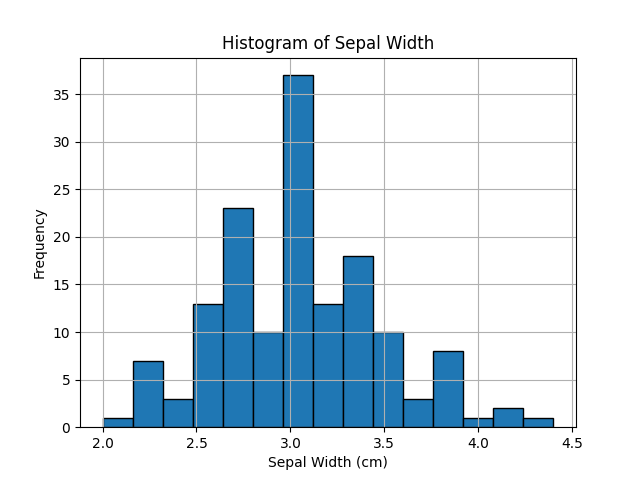
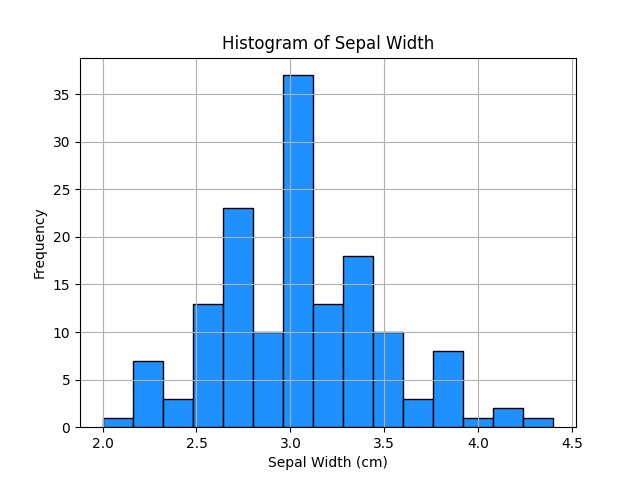
updated charts

Changed region(s): [[0.1562, 0.1562, 0.875, 0.9062]]

diff --git a/analysis.py b/analysis.py
@@ -1,48 +1,74 @@
 # Author: Elaine R. Cazetta
-# Description: This script is part of the Iris Dataset Analysis Project for the 
-# Programming and Scripting module. It performs basic data analysis using the 
-# Iris dataset, including:
+# Description: This script is part of the Iris Dataset Analysis 
+# Project for the Programming and Scripting module. It performs 
+# basic data analysis using the Iris dataset, including:
 # - Exporting the dataset to CSV format
 # - Generating summary statistics
 # - Creating histograms for each feature
 # - Visualising relationships between features using scatter plots
-# - Exploring species-wise differences with box plots
+# - Exploring differences between species with box plots
 # - Displaying feature correlations using a heatmap
+# - Visualising relationships between features using a pairplot
 # Lecturer: Andrew Beatty
 # Institution: Atlantic Technological University
 # Year: 2025
 
-# Imports:
-import pandas as pd
-import numpy as np
-import matplotlib.pyplot as plt
-from sklearn.datasets import load_iris
+#-----------------------------------------------------------------#
+
+# Importing the libraries:
+# For data manipulation and analysis
+import pandas as pd 
+# For numerical operations and working with arrays
+import numpy as np 
+# For creating data visualizations
+import matplotlib.pyplot as plt 
+# For creating enhanced and statistical visualizations
+import seaborn as sns
+# To load the Iris dataset
+from sklearn.datasets import load_iris 
+
+#-----------------------------------------------------------------#
 
 # Load the Iris dataset from sklearn
 iris = load_iris()
 
+#-----------------------------------------------------------------#
+
 # Create a pandas dataframe with the feature data
 df = pd.DataFrame(data=iris.data, columns=iris.feature_names)
+
 # Add a 'species' column to identify each row
 df['species'] = iris.target
+
+# Map the numeric species labels (0, 1, 2) to their corresponding 
+# species names
+species_map = {0: 'setosa', 1: 'versicolor', 2: 'virginica'}
+df['species'] = df['species'].replace(species_map)
+
+#-----------------------------------------------------------------#
 
 # Save the full dataset to a CSV file for external use or review
 df.to_csv('iris.csv', index=False)
 
+#-----------------------------------------------------------------#
+
 # Generate summary statistics for each numeric feature
-# Includes: count, mean, std deviation, min, 25%, 50%, 75%, and max values
+# Includes: count, mean, std deviation, min, 25%, 50%, 75%, and 
+# max values
 summary = df.describe()
 
 # Save the summary to a text file
 with open('summary.txt', 'w') as f:
     f.write("Summary of Each Variable in the Iris Dataset\n")
-    f.write(summary.to_string())  # Converts the summary dataframe into a string
+    f.write(summary.to_string()) # Converts summary dataframe into a string
+
+#-----------------------------------------------------------------#
 
 # Plot and save histograms to show distribution of each numeric feature:
 
 # Histogram: Sepal Length
 plt.figure()
-plt.hist(df['sepal length (cm)'], bins=15, edgecolor='black')
+plt.hist(df['sepal length (cm)'], bins=15, color='dodgerblue', edgecolor='black')
 plt.title('Histogram of Sepal Length')
 plt.xlabel('Sepal Length (cm)')
 plt.ylabel('Frequency')
@@ -52,7 +78,7 @@ plt.close()
 
 # Histogram: Sepal Width
 plt.figure()
-plt.hist(df['sepal width (cm)'], bins=15, edgecolor='black')
+plt.hist(df['sepal width (cm)'], bins=15, color='dodgerblue', edgecolor='black')
 plt.title('Histogram of Sepal Width')
 plt.xlabel('Sepal Width (cm)')
 plt.ylabel('Frequency')
@@ -62,7 +88,7 @@ plt.close()
 
 # Histogram: Petal Length
 plt.figure()
-plt.hist(df['petal length (cm)'], bins=15, edgecolor='black')
+plt.hist(df['petal length (cm)'], bins=15, color='dodgerblue', edgecolor='black')
 plt.title('Histogram of Petal Length')
 plt.xlabel('Petal Length (cm)')
 plt.ylabel('Frequency')
@@ -72,7 +98,7 @@ plt.close()
 
 # Histogram: Petal Width
 plt.figure()
-plt.hist(df['petal width (cm)'], bins=15, edgecolor='black')
+plt.hist(df['petal width (cm)'], bins=15, color='dodgerblue', edgecolor='black')
 plt.title('Histogram of Petal Width')
 plt.xlabel('Petal Width (cm)')
 plt.ylabel('Frequency')
@@ -80,19 +106,26 @@ plt.grid()
 plt.savefig('fig4_hist_petal_width.png')
 plt.close()
 
+#-----------------------------------------------------------------#
+
 # Create scatter plots for feature pairs, colored by species
 # These plots help visualize how species differ based on two features:
 
-# Define colors and labels
-colors = ["dodgerblue", "darkorange", "mediumvioletred"]
-labels = iris.target_names
+# Define colours for each species using a dictionary
+colors = {'setosa': 'dodgerblue', 'versicolor': 'darkorange', 
+          'virginica': 'mediumvioletred'}
 
-# Scatter plot: Sepal Length vs Sepal Width
-plt.figure(figsize=(8, 6))
-for i in range(3):
-    subset = df[df['species'] == i]
-    plt.scatter(subset["sepal length (cm)"], subset["sepal width (cm)"],
-                color=colors[i], label=labels[i])
+# Scatter Plot: Sepal Length vs Sepal Width
+plt.figure(figsize=(8, 6)) # Set the figure size
+
+# Filter the DataFrame by species [18]
+for species, color in colors.items():
+    subset = df[df['species'] == species]
+
+# Plot Sepal Length vs Sepal Width for each species
+    plt.scatter(subset['sepal length (cm)'], subset['sepal width (cm)'],
+                label=species, color=color)
+    
 plt.xlabel("Sepal Length (cm)")
 plt.ylabel("Sepal Width (cm)")
 plt.title("Sepal Length vs Sepal Width")
@@ -101,12 +134,17 @@ plt.legend()
 plt.savefig("fig5_sepal_scatter_plot.png")
 plt.close()
 
-# Scatter plot: Petal Length vs Petal Width
-plt.figure(figsize=(8, 6))
-for i in range(3):
-    subset = df[df['species'] == i]
-    plt.scatter(subset["petal length (cm)"], subset["petal width (cm)"],
-                color=colors[i], label=labels[i])
+# Scatter Plot: Petal Length vs Petal Width
+plt.figure(figsize=(8, 6)) # Set the figure size
+
+# Filter the DataFrame by species [18]
+for species, color in colors.items():
+    subset = df[df['species'] == species]
+
+# Plot Petal Length vs Petal Width for each species
+    plt.scatter(subset['petal length (cm)'], subset['petal width (cm)'],
+                label=species, color=color)
+    
 plt.xlabel("Petal Length (cm)")
 plt.ylabel("Petal Width (cm)")
 plt.title("Petal Length vs Petal Width")
@@ -115,48 +153,86 @@ plt.legend()
 plt.savefig("fig6_petal_scatter_plot.png")
 plt.close()
 
-# Create box plots to show distribution of petal and sepal lengths by species
+#-----------------------------------------------------------------#
+
+# Create box plots to show distribution of each feature grouped by species.
 # Helps compare median, range, and outliers among species for each feature:
 
-# Define custom colors
-colors = ["dodgerblue", "darkorange", "mediumvioletred"]
-species_labels = ["Setosa", "Versicolor", "Virginica"]
+# Set style to white to remove gridlines
+sns.set(style="whitegrid")
 
-# Box Plot: Petal Length by Species
-petal_lengths = [df[df["species"] == i]["petal length (cm)"] for i in range(3)]
-plt.figure(figsize=(8, 6))
-box = plt.boxplot(petal_lengths, patch_artist=True, tick_labels=species_labels)
-for patch, color in zip(box['boxes'], colors):
-    patch.set_facecolor(color)
-plt.title("Box Plot of Petal Length by Species")
-plt.ylabel("Petal Length (cm)")
-plt.grid(True)
-plt.savefig("fig7_boxplot_petal_length_by_species.png")
+# Features to plot
+features = ['sepal length (cm)', 'sepal width (cm)', 
+            'petal length (cm)', 'petal width (cm)']
+
+# Loop through each feature and save individual plots
+for i, feature in enumerate(features, start=7):  # Start numbering at figure 7
+    plt.figure(figsize=(8, 6))  # Create a new figure
+
+    # Create boxplot for the current feature grouped by species
+    sns.boxplot(x='species', y=feature, data=df,
+                hue='species', legend=False,
+                palette={'setosa': 'dodgerblue',
+                         'versicolor': 'darkorange',
+                         'virginica': 'mediumvioletred'})
+
+    # Add title, axis labels and gridelines
+    plt.title(f'Box Plot of {feature} by Species')
+    plt.xlabel('')
+    plt.ylabel(feature)
+    plt.grid()
+
+    # Save the plot as a PNG file
+    filename = f'fig{i}_boxplot_{feature.replace(" ", "_")}_by_species.png'
+    plt.savefig(filename)
+    plt.close()
+
+#-----------------------------------------------------------------#
+
+# Create heatmaps to show correlations between numeric features:
+
+# Loop through each species and create individual heatmaps
+species_list = df['species'].unique()
+
+for i, species in enumerate(species_list, start=11): # Start figure at 11
+    subset = df[df['species'] == species].drop('species', axis=1) # Drop species column
+    corr = subset.corr()  # Calculate correlation matrix
+
+    # Create a new figure
+    plt.figure(figsize=(8, 5))
+
+    # Plot the heatmap
+    sns.heatmap(corr, annot=True, cmap='BuPu', fmt=".2f",
+                square=True, cbar=True)
+
+    # Set title and rotate x-axis labels
+    plt.title(f'{species.capitalize()} - Feature Correlation', fontsize=12)
+    plt.xticks(rotation=45)
+    plt.tight_layout() # Adjust spacing between plots
+
+    # Save the figure
+    filename = f'fig{i}_heatmap_{species}_correlation.png'
+    plt.savefig(filename)
+    plt.close()
+
+#-----------------------------------------------------------------#
+
+# Create pairplots to show relationships between variables:
+
+# Set style to white to remove gridlines
+sns.set_style("white")
+
+# Create a pairplot to show relationships between all numeric 
+# variables, grouped by species
+sns.pairplot(df, hue="species", palette={'setosa': 'dodgerblue',
+                      'versicolor': 'darkorange',
+                      'virginica': 'mediumvioletred'})
+
+# Add a title slightly above the plot
+plt.suptitle("Pairplot of Iris Dataset", y=1.02)
+
+# Save the figure
+plt.savefig("fig14_pairplot_iris_dataset.png")
 plt.close()
 
-# Box Plot: Sepal Length by Species
-sepal_lengths = [df[df["species"] == i]["sepal length (cm)"] for i in range(3)]
-plt.figure(figsize=(8, 6))
-box = plt.boxplot(sepal_lengths, patch_artist=True, tick_labels=species_labels)
-for patch, color in zip(box['boxes'], colors):
-    patch.set_facecolor(color)
-plt.title("Box Plot of Sepal Length by Species")
-plt.ylabel("Sepal Length (cm)")
-plt.grid(True)
-plt.savefig("fig8_boxplot_sepal_length_by_species.png")
-plt.close()
-
-# Create a heatmap to show correlations between numeric features:
-
-# Correlation heatmap of all features
-correlation = df.drop(columns='species').corr() #Calculate the correlation coeff between features
-
-plt.figure(figsize=(8, 6))
-plt.imshow(correlation, cmap="GnBu", interpolation="nearest")
-plt.colorbar(label="Correlation Coefficient")
-plt.xticks(ticks=np.arange(len(correlation.columns)), labels=correlation.columns, rotation=45)
-plt.yticks(ticks=np.arange(len(correlation.columns)), labels=correlation.columns)
-plt.title("Correlation Heatmap of Iris Dataset Features")
-plt.tight_layout()
-plt.savefig("fig9_correlation_heatmap.png")
-plt.close()
+#-----------------------------------------------------------------#
